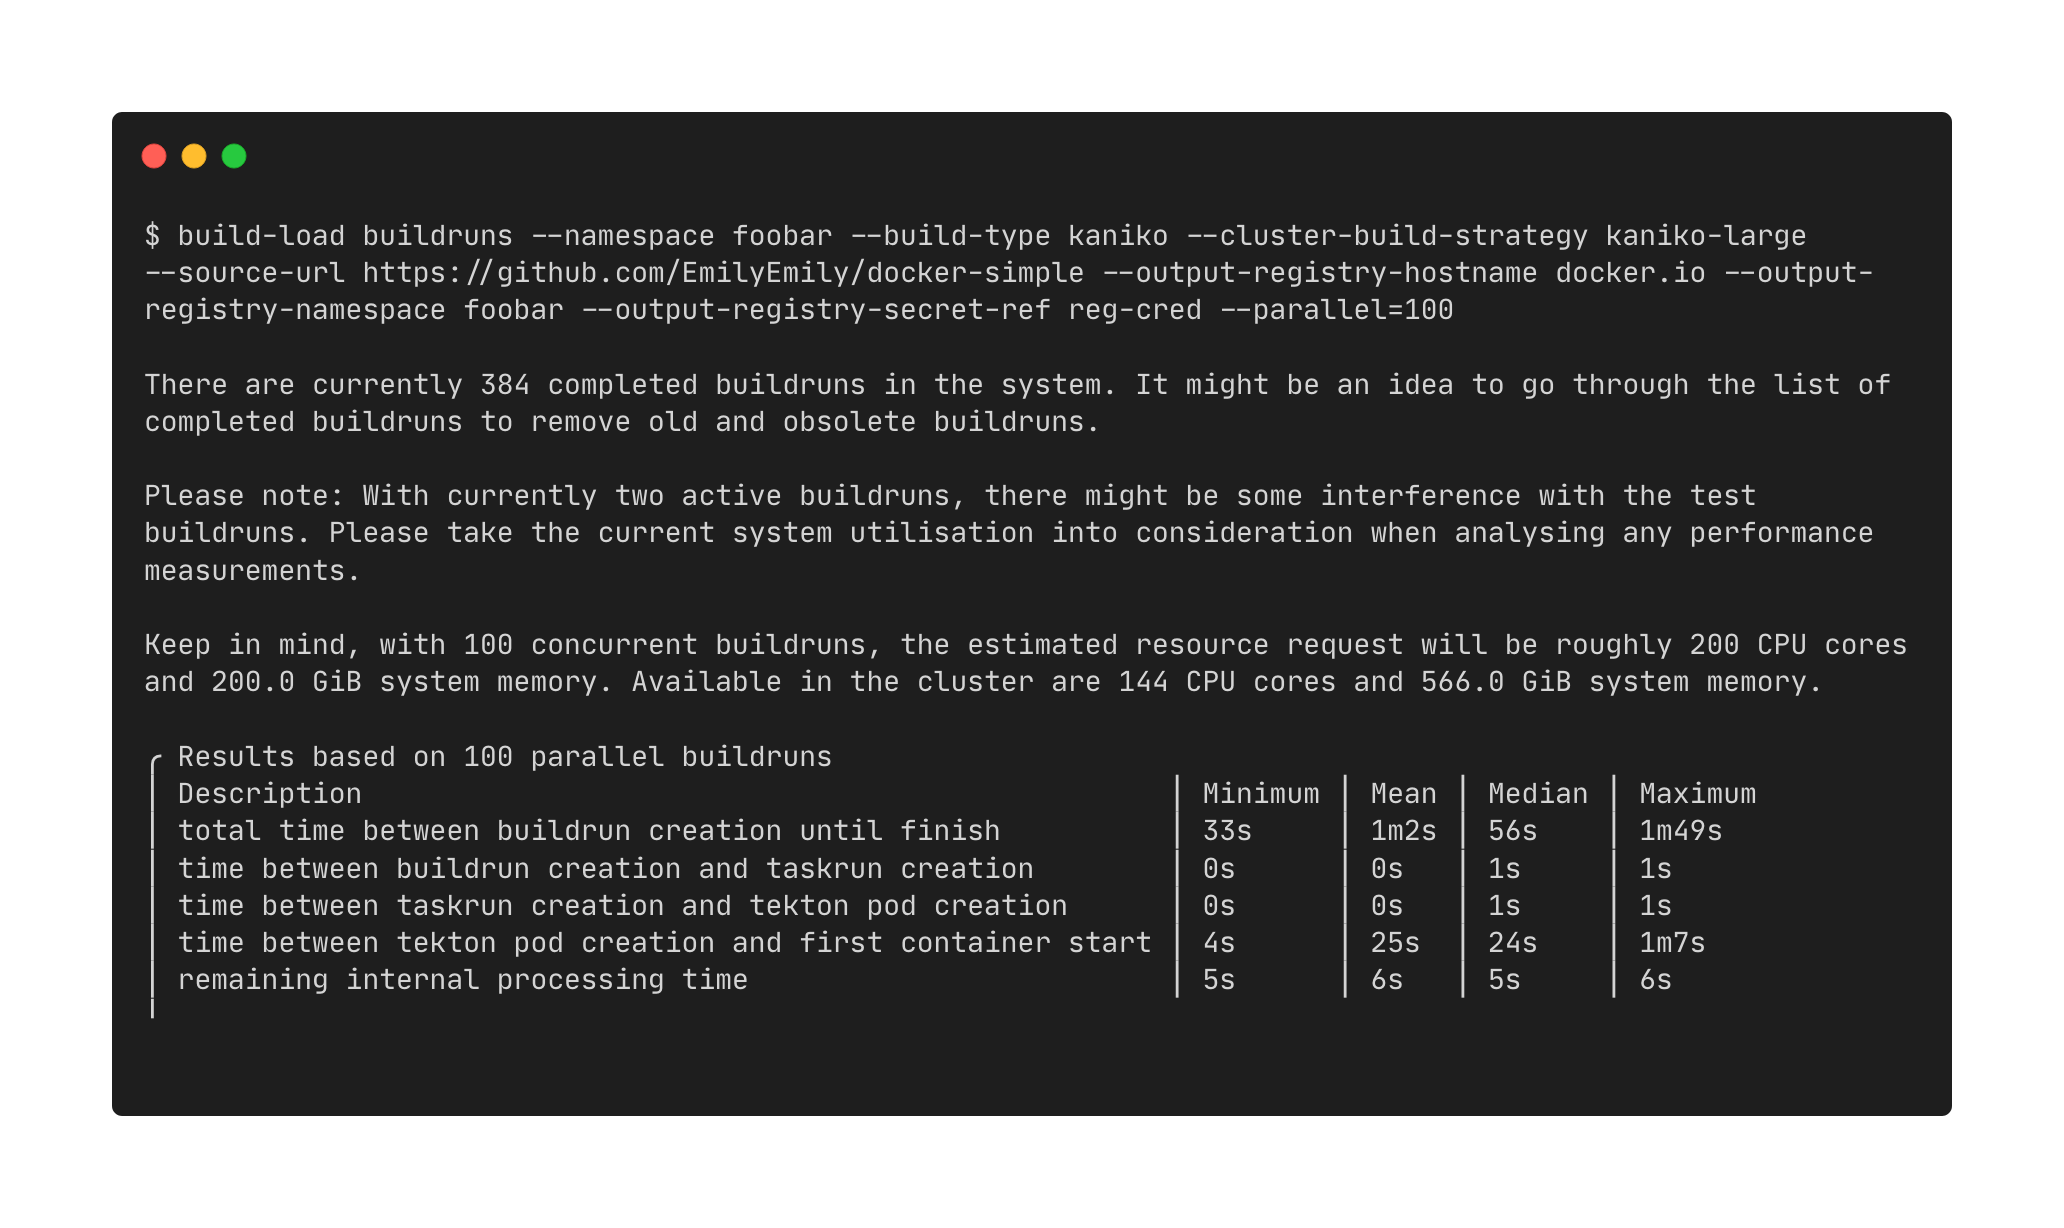
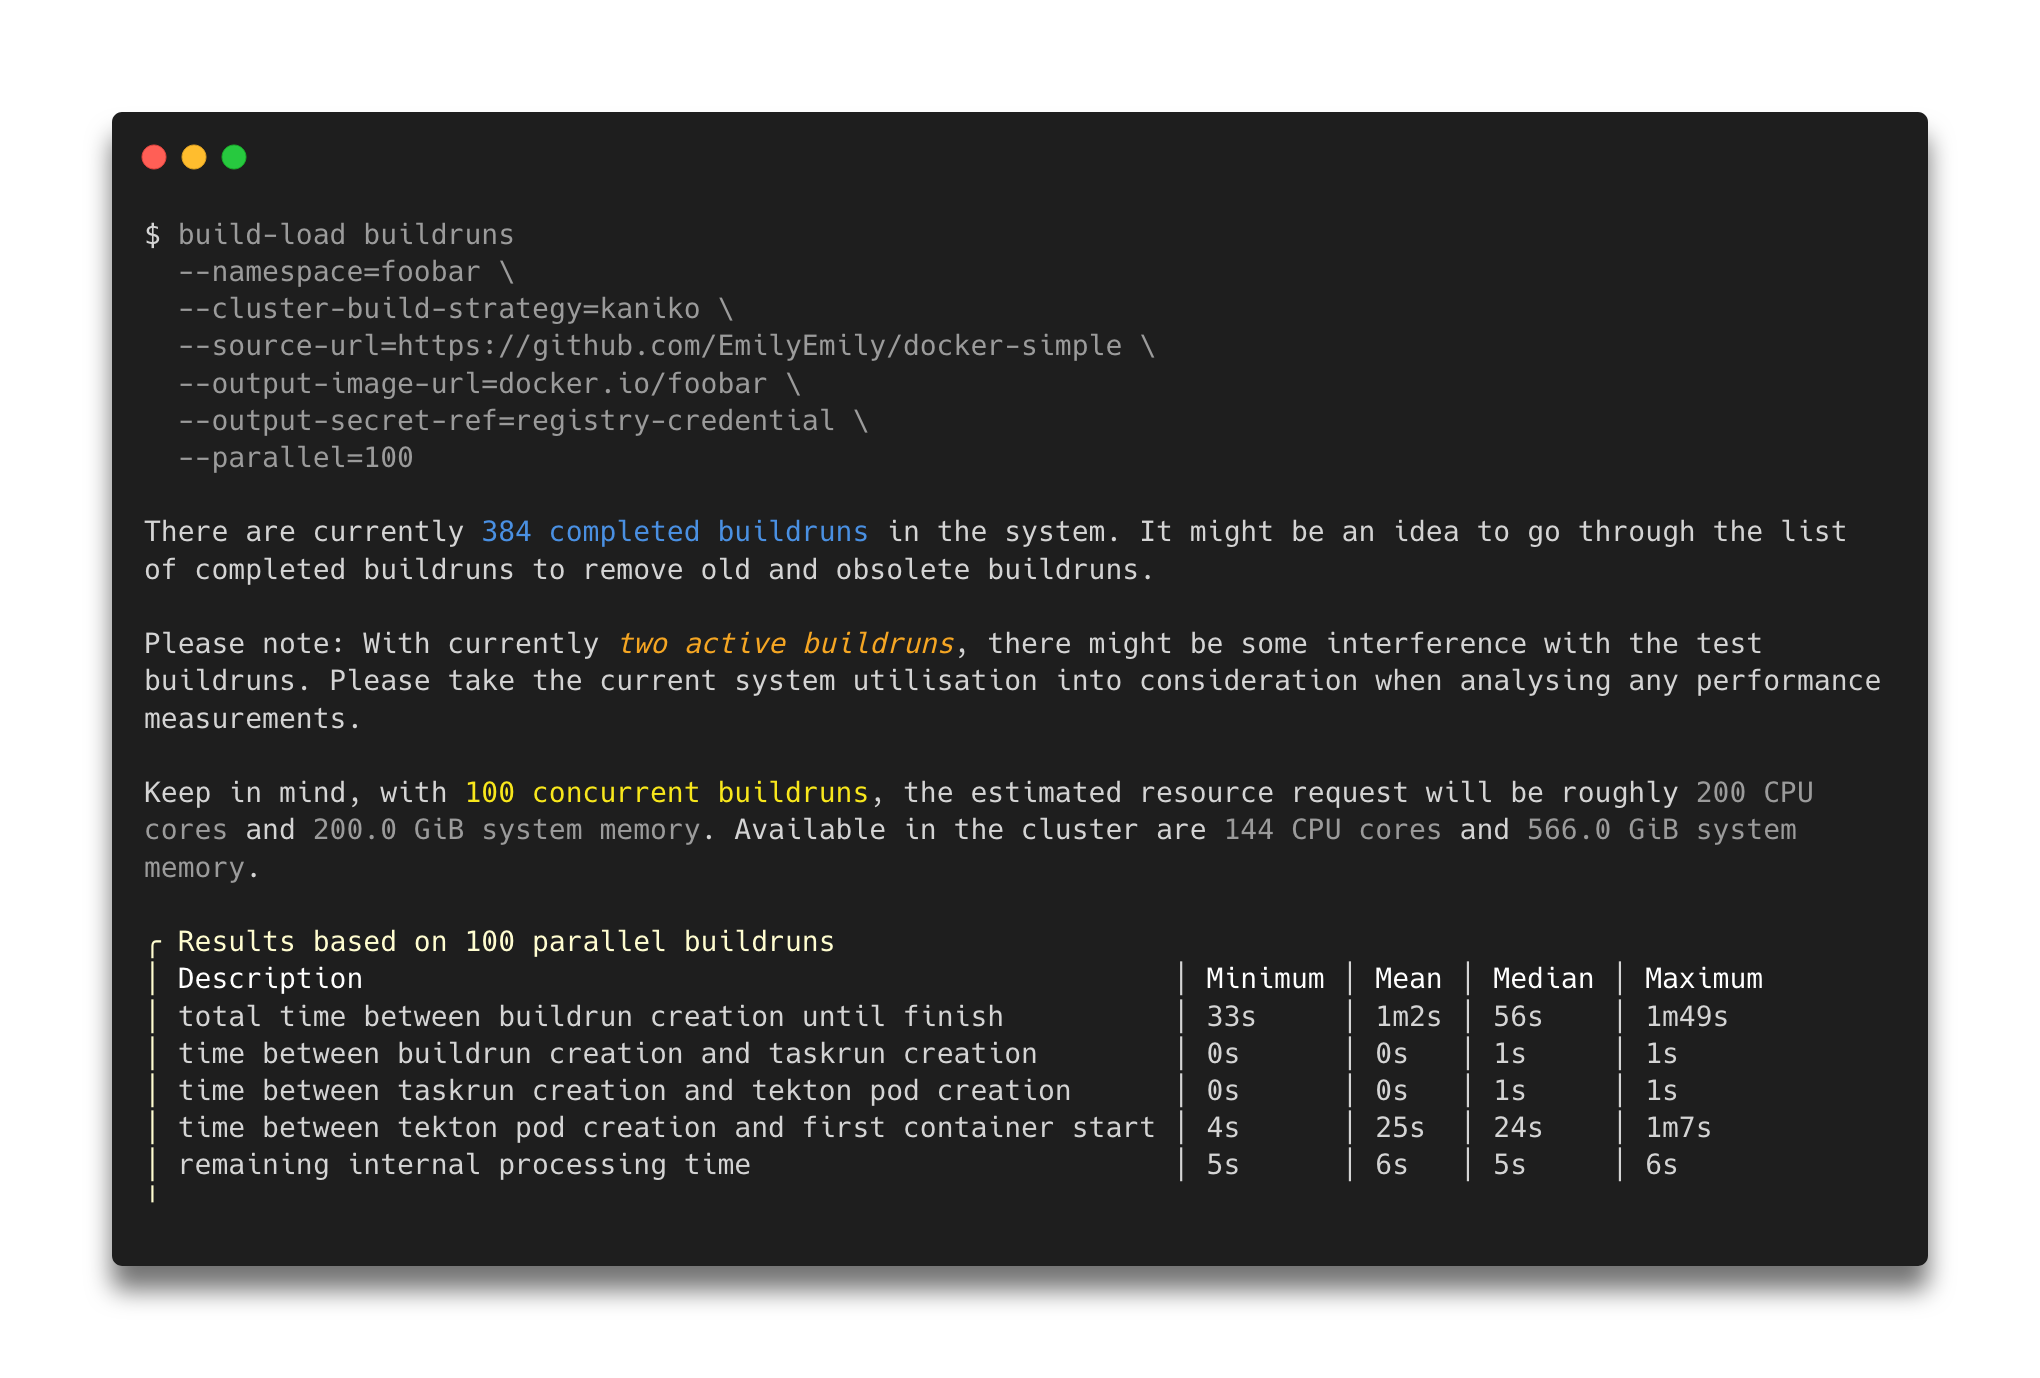
Update README with new flags
The command line flags were changed recently to be more aligned with the
shipwright build project `BuildSpec` and the examples were out of date.

Fix examples to match current flags.

Add test plan example.

Update example image.

Changed region(s): [[0.0309, 0.0619, 0.9574, 0.9593], [0.6485, 0.3094, 0.8956, 0.3404]]

diff --git a/README.md b/README.md
@@ -6,31 +6,77 @@ Create synthetic load for [shipwright-io/build](https://github.com/shipwright-io
 
 ## Examples
 
-### Kaniko buildrun
+### Build Runs
+
+#### Kaniko buildrun
 
 ```sh
 build-load \
   buildruns \
-  --build-type=kaniko \
+  --namespace test-namespace \
   --cluster-build-strategy=kaniko \
   --source-url=https://github.com/EmilyEmily/docker-simple \
-  --output-registry-hostname=docker.io \
-  --output-registry-namespace=boatyard \
-  --output-registry-secret-ref=registry-credentials
+  --output-image-url=docker.io/boatyard \
+  --output-secret-ref=registry-credentials
 ```
 
-### Buildpacks buildrun
+#### Buildpacks buildrun
 
 ```sh
 build-load \
   buildruns \
-  --build-type=buildpack \
+  --namespace test-namespace \
   --cluster-build-strategy=buildpacks-v3 \
   --source-url=https://github.com/sclorg/nodejs-ex \
-  --output-registry-hostname=docker.io \
-  --output-registry-namespace=boatyard \
-  --output-registry-secret-ref=registry-credentials
+  --output-image-url=docker.io/boatyard \
+  --output-secret-ref=registry-credentials
 ```
+
+### Test Plan
+
+#### Use Test Plan YAML
+
+```yaml
+---
+namespace: test-namespace
+steps:
+- name: kaniko
+  buildSpec:
+    source:
+      url: https://github.com/EmilyEmily/docker-simple
+      contextDir: /
+    strategy:
+      name: kaniko
+      kind: ClusterBuildStrategy
+    dockerfile: Dockerfile
+    output:
+      image: docker.io/boatyard
+      credentials:
+        name: reg-cred
+
+- name: buildpacks
+  buildSpec:
+    source:
+      url: https://github.com/sclorg/nodejs-ex
+      contextDir: /
+    strategy:
+      name: buildpacks-v3
+      kind: ClusterBuildStrategy
+    output:
+      image: docker.io/boatyard
+      credentials:
+        name: reg-cred
+```
+
+Run the test plan using:
+
+```sh
+build-load \
+  buildruns-testplan \
+  --testplan testplan.yml
+```
+
+The test plan can also be piped into the program using `-` as the filename and a here-doc YAML.
 
 ## Setup
 
